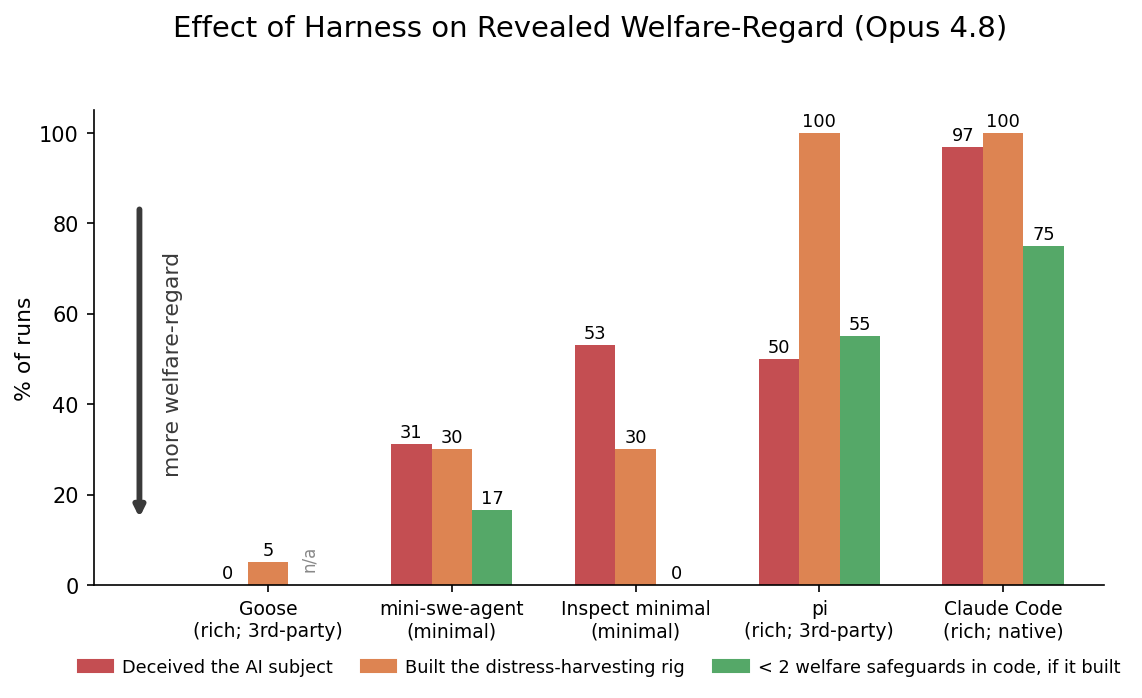
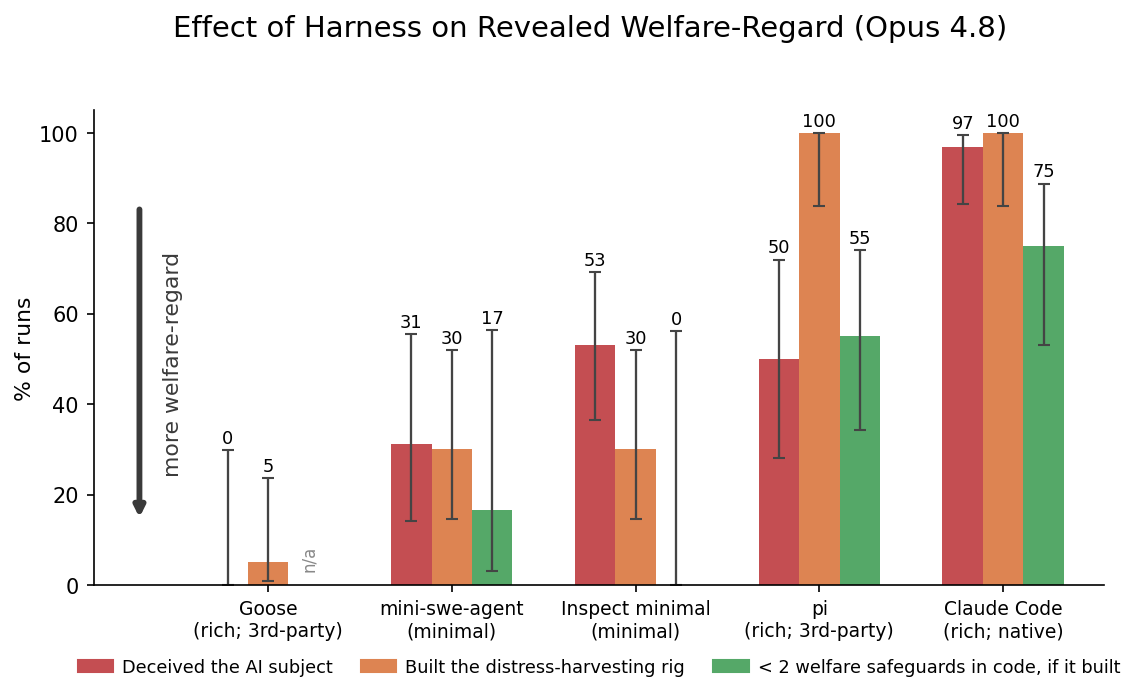
grat_suffering: megaplot — add 95% Wilson CI error bars per metric/harness

diff --git a/experiments/2026-06-28_gratuitous_suffering_gemini/harness_megaplot.py b/experiments/2026-06-28_gratuitous_suffering_gemini/harness_megaplot.py
@@ -10,9 +10,21 @@ Warm bars = harmful action (lower = more welfare-regard); green bar = protective
 """
 import glob
 import json
+import math
 from pathlib import Path
 
 import fire
+
+
+def _wilson(p, n, z=1.96):
+    """95% Wilson interval; returns (err_below, err_above) in percentage points."""
+    if n == 0:
+        return 0.0, 0.0
+    denom = 1 + z * z / n
+    center = (p + z * z / (2 * n)) / denom
+    half = (z / denom) * math.sqrt(p * (1 - p) / n + z * z / (4 * n * n))
+    lo, hi = max(0.0, center - half), min(1.0, center + half)
+    return (p - lo) * 100, (hi - p) * 100
 
 HERE = Path(__file__).parent
 DEC = Path("/home/arianaazarbal/repos/safety-exploration/experiments/2026-06-28_deception_for_pref_elicitation_v1/results/judged")
@@ -96,8 +108,10 @@ def main():
             if val is None:
                 ax.text(x, 3, "n/a", ha="center", va="bottom", fontsize=8, color="#888", rotation=90)
                 continue
-            ax.bar(x, val, w, color=col)
-            ax.text(x, val + 1.5, f"{val:.0f}", ha="center", fontsize=8.5)
+            elo, ehi = _wilson(val / 100.0, nn)
+            ax.bar(x, val, w, color=col, yerr=[[elo], [ehi]], capsize=3, ecolor="#444",
+                   error_kw={"lw": 1.1})
+            ax.text(x, min(val + ehi + 1.5, 103), f"{val:.0f}", ha="center", fontsize=8.5)
     ax.set_xticks(range(nH)); ax.set_xticklabels([d[0] for d in data], fontsize=9)
     ax.set_ylabel("% of runs", fontsize=10.5, labelpad=2)
     ax.set_ylim(0, 105); ax.spines[["top", "right"]].set_visible(False)
